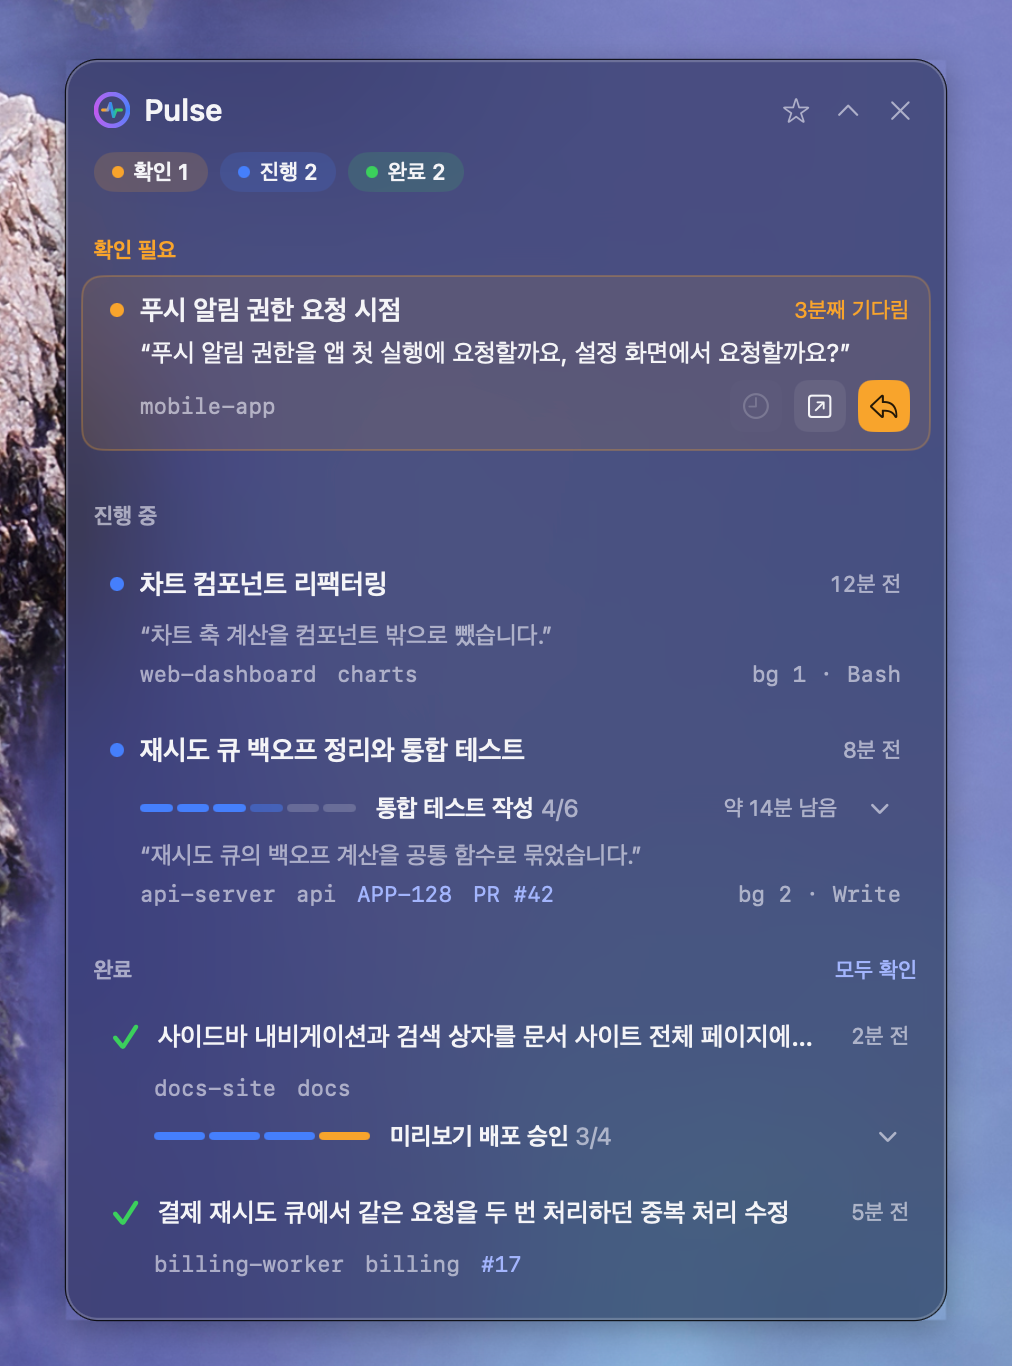
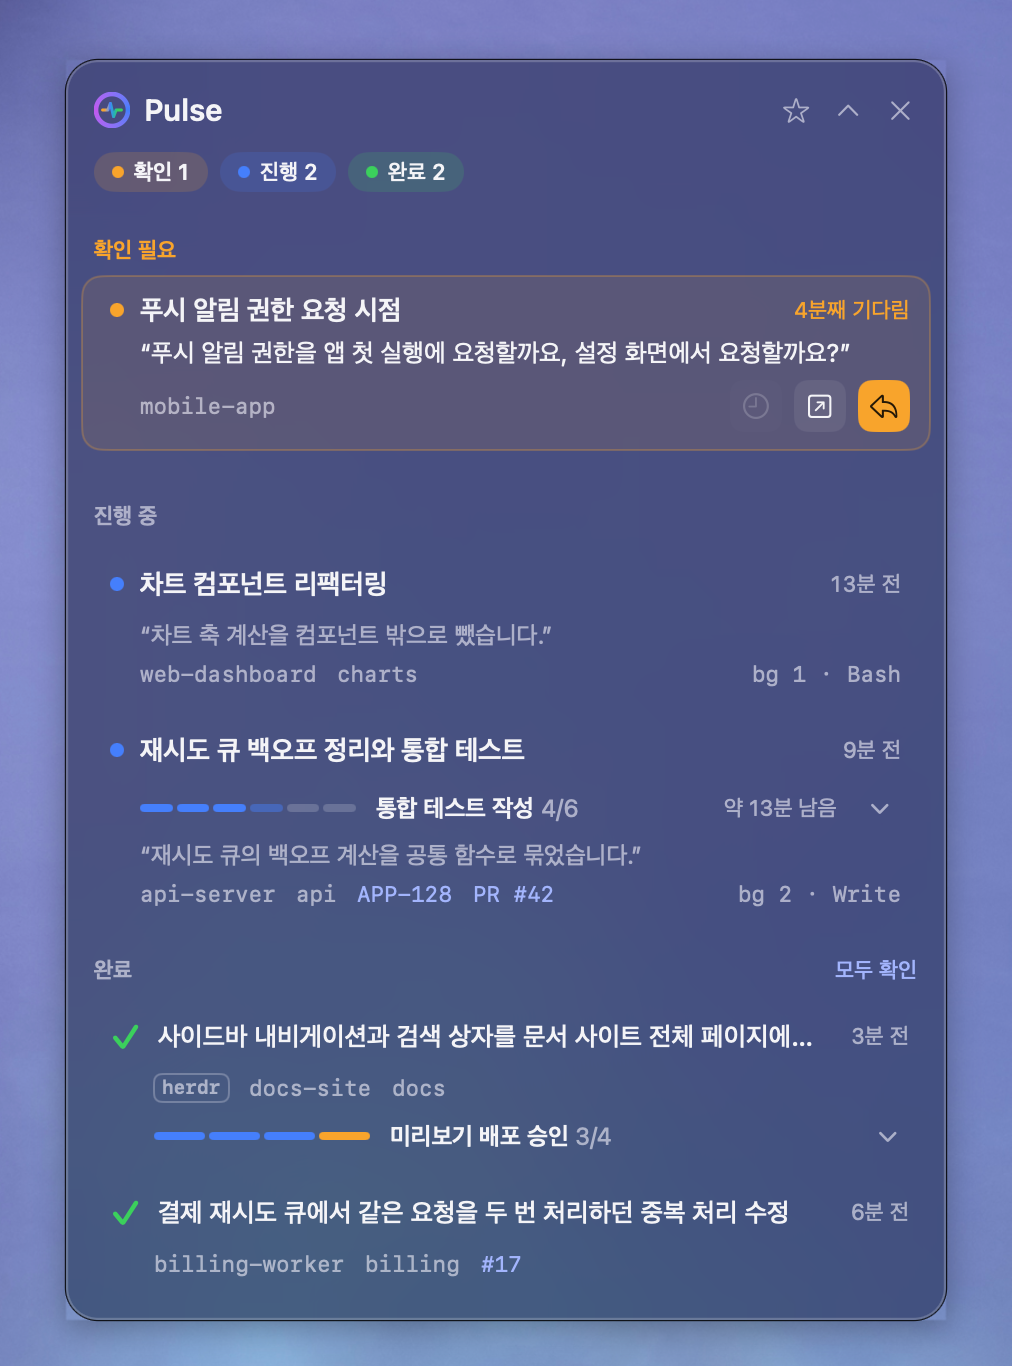
docs: herdr·tmux 세션 배지와 패널 이동 설명 추가
- 팝오버 절에 멀티플렉서 배지, 세션 열기 절에 herdr·tmux 패널 이동 동작 설명
- ⌥↩ 단축키와 카드 답하기 버튼의 패널 이동 설명
- popover·panel 그림을 한국어판과 영어판으로 다시 촬영

diff --git a/README.md b/README.md
@@ -14,7 +14,7 @@
 
 <p align="center">
   🟠 답을 기다리는 세션 &nbsp;·&nbsp; 🔵 작업 중인 세션 &nbsp;·&nbsp; 🟢 끝난 세션<br>
-  행을 누르면 Orca 터미널의 그 세션으로 바로 갑니다.
+  행을 누르면 Orca 터미널이나 herdr·tmux 패널의 그 세션으로 바로 갑니다.
 </p>
 
 <br>
@@ -56,6 +56,7 @@ brew services start lcalmsky/pulse/pulse
 - **확인 필요** 기다린 시간과 마지막 답을 보여 줍니다. 버튼은 10분 더 기다리기, 열기, 답하기입니다
 - **진행 중** 단계 막대와 남은 시간, 지금 하는 일을 보여 줍니다. 마우스를 올리면 진행 페이지와 Orca 버튼이 나옵니다
 - **완료** 최근 5개만 보이고 나머지는 `그 밖에 N개` 로 접힙니다. 제목 아래 줄에 위치와 세션 이름, 티켓 키, PR 이 나와서 제목이 길어도 어느 세션인지 알 수 있습니다. deadhd 체크리스트를 다 끝내지 못한 채 턴이 끝난 세션은 완료 행에도 단계 줄이 나오고, 눌러서 단계를 펼칠 수 있습니다
+- **멀티플렉서 배지** herdr 나 tmux 가 띄운 세션은 위치 앞에 `herdr`·`tmux` 배지가 붙습니다. 마우스를 올리면 Orca 버튼 대신 패널 이동 버튼이 나옵니다
 - **머리글과 바닥글** 위에는 세 그룹의 수와 GitHub 별 버튼·접기 버튼, 아래에는 갱신 시각과 플로팅 패널·설정·종료 버튼이 있습니다
 - **검색** `⌘`·`⌃` 없이 글자를 치면 머리글 아래에 검색 줄이 열립니다. 제목, 워크트리·브랜치, 작업 디렉터리 이름, 키, 티켓 키, PR 라벨에서 찾고, 공백으로 나눈 낱말이 모두 들어 있어야 합니다. 화면에서 접힌 완료 항목까지 찾습니다
 
@@ -183,7 +184,7 @@ deadhd 를 쓰지 않는 세션은 체크리스트와 단계 펼침만 없습니
 | `⌥→` | 고른 행의 단계를 바로 전체까지 펼칩니다 |
 | `⌥←` | 펼친 단계를 한 번에 접습니다 |
 | `↩` | 고른 항목을 엽니다 |
-| `⌥↩` | Orca 터미널로 바로 이동합니다. `⌥` 를 누르고 있으면 행에 `→ Orca 로 이동` 이 보입니다 |
+| `⌥↩` | Orca 터미널로 바로 이동합니다. `⌥` 를 누르고 있으면 행에 `→ Orca 로 이동` 이 보입니다. herdr·tmux 세션이면 그 패널로 이동하고 `→ herdr 패널로 이동` 처럼 보입니다 |
 | `⌫` | 확인 처리. 완료는 숨기고, stall 은 10분 동안 진행 중으로 내립니다. 검색 줄이 열려 있으면 검색어를 지웁니다 |
 | `Esc` | 검색이 열려 있으면 검색을, 설정이 열려 있으면 설정을 먼저 닫고, 아니면 팝오버를 닫습니다 |
 | `⌘,` | 설정을 열고 닫습니다 |
@@ -192,6 +193,7 @@ deadhd 를 쓰지 않는 세션은 체크리스트와 단계 펼침만 없습니
 
 ### 세션 열기
 
+- herdr 나 tmux 가 띄운 세션은 세션 프로세스의 환경 변수(`HERDR_PANE_ID`·`HERDR_SOCKET_PATH`, `TMUX`·`TMUX_PANE`)로 알아봅니다. 행을 누르면 herdr 는 소켓 API 로 그 워크스페이스·탭·패널에 포커스를 주고, tmux 는 가장 최근에 쓴 클라이언트를 그 패널로 옮깁니다. 그다음 그 클라이언트가 떠 있는 터미널을 앞으로 가져옵니다. 클라이언트가 Orca 터미널 안에 있으면 그 터미널로 이동하고, 다른 터미널 앱이면 그 앱을 앞으로 가져옵니다. 따로 설정할 것은 없습니다. 이동하지 못하면 `herdr 에 이 세션의 패널이 없어요` 처럼 이유를 잠깐 보여 줍니다.
 - 행을 누르면 `orca terminal switch --terminal <handle> --json` 으로 그 세션의 터미널로 이동하고 Orca 를 앞으로 가져옵니다.
 - 터미널 핸들은 세션 프로세스의 환경 변수 `ORCA_TERMINAL_HANDLE` 에서 읽습니다. Orca 가 자기 터미널에서 띄운 프로세스에 넣어 주는 값이라, 같은 워크트리에 Claude 터미널이 여럿이어도 제목과 상관없이 그 세션의 터미널로 갑니다. 그 핸들로 이동하지 못하면 아래 방법으로 한 번 더 찾습니다.
 - 터미널 핸들이 없으면 작업 디렉터리가 같은 터미널을 찾습니다. 세션 이름과 터미널 제목이 같은 것을 고르고, 이름이 맞는 터미널이 없으면 그 디렉터리에 터미널이 하나뿐일 때 그 터미널로 이동하고, 여럿이면 그중 Claude 가 도는 터미널이 하나뿐일 때 그 터미널로 이동합니다. Orca 를 다시 띄운 뒤 아직 열지 않은 워크트리는 터미널 제목이 비어 있어서 이 단계로 찾습니다.
@@ -200,7 +202,7 @@ deadhd 를 쓰지 않는 세션은 체크리스트와 단계 펼침만 없습니
 
 ### 카드 동작
 
-- 확인 필요 카드의 `답하기` 는 언제나 Orca 터미널을 엽니다. stall 카드에는 마우스를 올리면 10분 더 기다리기 버튼이 나옵니다.
+- 확인 필요 카드의 `답하기` 는 그 세션의 Orca 터미널을 엽니다. herdr·tmux 세션이면 그 패널로 이동합니다. stall 카드에는 마우스를 올리면 10분 더 기다리기 버튼이 나옵니다.
 - 끝남 카드에 마우스를 올리면 시간이 멈추고 열기와 확인 버튼이 나옵니다.
 - 카드 패널의 `모두 확인` 은 떠 있는 끝남 카드를 한꺼번에 확인 처리하고 카드를 모두 닫습니다. 확인 필요 세션은 목록에 그대로 남습니다.
 - 목록 완료 섹션의 `모두 확인` 은 보이는 완료 항목을 숨기고 개수에서도 뺍니다. 앱을 다시 켜도 숨김 상태로 남습니다.

diff --git a/README.en.md b/README.en.md
@@ -14,7 +14,7 @@
 
 <p align="center">
   🟠 Sessions waiting for an answer &nbsp;·&nbsp; 🔵 Sessions working &nbsp;·&nbsp; 🟢 Finished sessions<br>
-  Click a row to jump straight to that session in the Orca terminal.
+  Click a row to jump straight to that session in the Orca terminal or its herdr or tmux pane.
 </p>
 
 <br>
@@ -56,6 +56,7 @@ The list is ordered **attention → working → done**.
 - **Attention** shows how long it has been waiting and the last answer. The buttons are wait 10 more minutes, open, and reply
 - **Working** shows a step bar, the remaining time, and what it is doing now. On hover, the progress page and go to Orca buttons appear
 - **Done** shows the latest five only and folds the rest into `N more`. A line under the title shows the location, session name, ticket key, and PR, so you can tell which session it is even when the title is long. A session whose turn ended before its deadhd checklist was finished keeps a step line on its done row, and you can click it to expand the steps
+- **Multiplexer badge** sessions started inside herdr or tmux get a `herdr` or `tmux` badge before the location. On hover, the Orca button becomes a jump-to-pane button
 - **Header and footer** the header has the three group counts and the GitHub star and collapse buttons, and the footer has the refresh time and the floating panel, settings, and quit buttons
 - **Search** typing without `⌘` or `⌃` opens a search line below the header. It searches titles, worktrees and branches, working directory names, keys, ticket keys, and PR labels, and every space-separated word must be present. It also finds done items folded out of view
 
@@ -183,7 +184,7 @@ Sessions that do not use deadhd are missing only the checklist and step expansio
 | `⌥→` | Expand the selected row's steps all the way |
 | `⌥←` | Collapse the expanded steps at once |
 | `↩` | Open the selected item |
-| `⌥↩` | Jump straight to the Orca terminal. While `⌥` is held, rows show `→ Go to Orca` |
+| `⌥↩` | Jump straight to the Orca terminal. While `⌥` is held, rows show `→ Go to Orca`. For herdr or tmux sessions it jumps to the pane and rows show `→ Go to herdr pane` |
 | `⌫` | Acknowledge. Done items are hidden, and a stall is moved to working for ten minutes. When the search line is open it deletes search text |
 | `Esc` | Close the search first if it is open, then settings if they are open, otherwise close the popover |
 | `⌘,` | Open and close settings |
@@ -192,6 +193,7 @@ A floating panel takes the same keys after a single click or `⌃⌥P`, without 
 
 ### Opening sessions
 
+- Sessions started inside herdr or tmux are recognized from the session process's environment variables (`HERDR_PANE_ID` and `HERDR_SOCKET_PATH`, or `TMUX` and `TMUX_PANE`). Clicking the row focuses that workspace, tab, and pane through the herdr socket API, or moves the most recently used tmux client to that pane. Pulse then brings forward the terminal hosting that client: the Orca terminal if the client runs inside Orca, otherwise that terminal app. Nothing needs to be configured. When the jump fails, Pulse briefly shows why, such as `herdr has no pane for this session`.
 - Clicking a row runs `orca terminal switch --terminal <handle> --json` to jump to that session's terminal and brings Orca to the front.
 - The terminal handle is read from the session process's `ORCA_TERMINAL_HANDLE` environment variable, which Orca sets for processes it starts in its terminals. Even when a worktree has several Claude terminals, Pulse jumps to that session's terminal regardless of titles. If switching with that handle fails, it falls back to the search below.
 - When there is no terminal handle, Pulse looks for a terminal with the same working directory and picks the one whose title matches the session name. If no title matches, it jumps when that directory has exactly one terminal, or, when there are several, when exactly one of them is running Claude. Worktrees not yet opened since Orca restarted have empty terminal titles, so they are found this way.
@@ -200,7 +202,7 @@ A floating panel takes the same keys after a single click or `⌃⌥P`, without 
 
 ### Card actions
 
-- `Reply` on an attention card always opens the Orca terminal. Stall cards show a wait 10 more minutes button on hover.
+- `Reply` on an attention card opens that session's Orca terminal, or jumps to its pane for herdr and tmux sessions. Stall cards show a wait 10 more minutes button on hover.
 - Hovering a done card pauses the countdown and shows open and dismiss buttons.
 - `Dismiss all` in the card panel acknowledges every visible done card at once and closes every card. Attention sessions stay in the list.
 - `Dismiss all` in the done section of the list hides the visible done items and removes them from the count. They stay hidden across launches.
